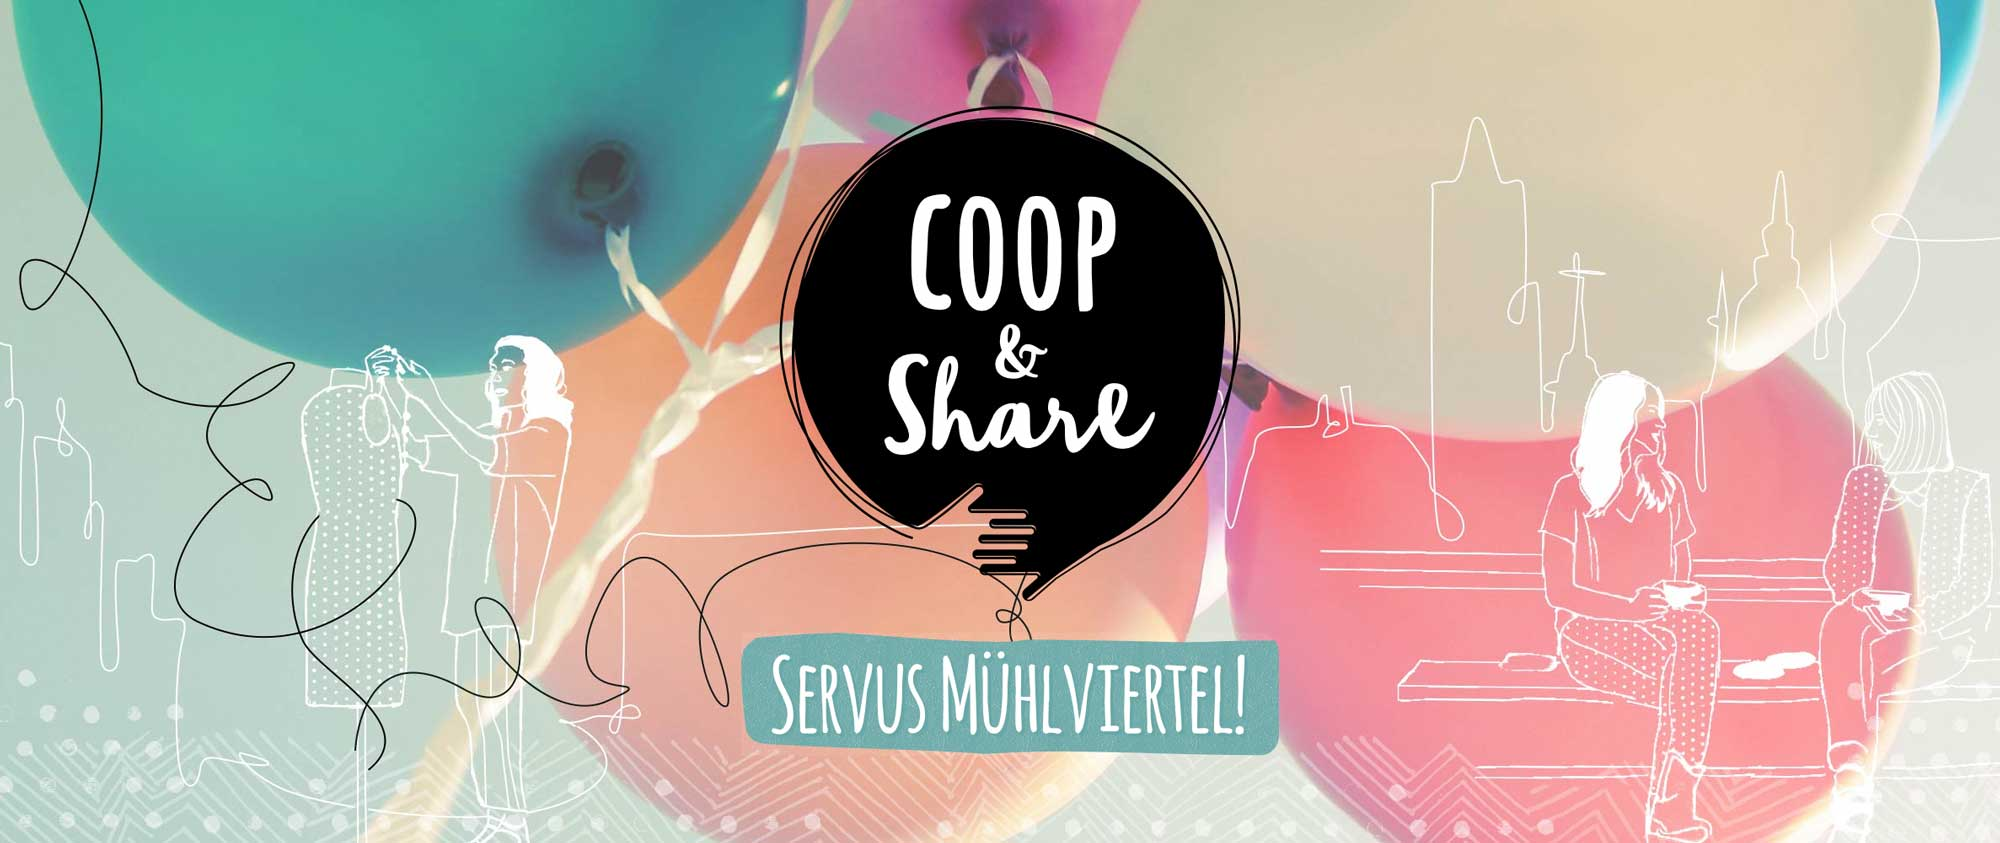
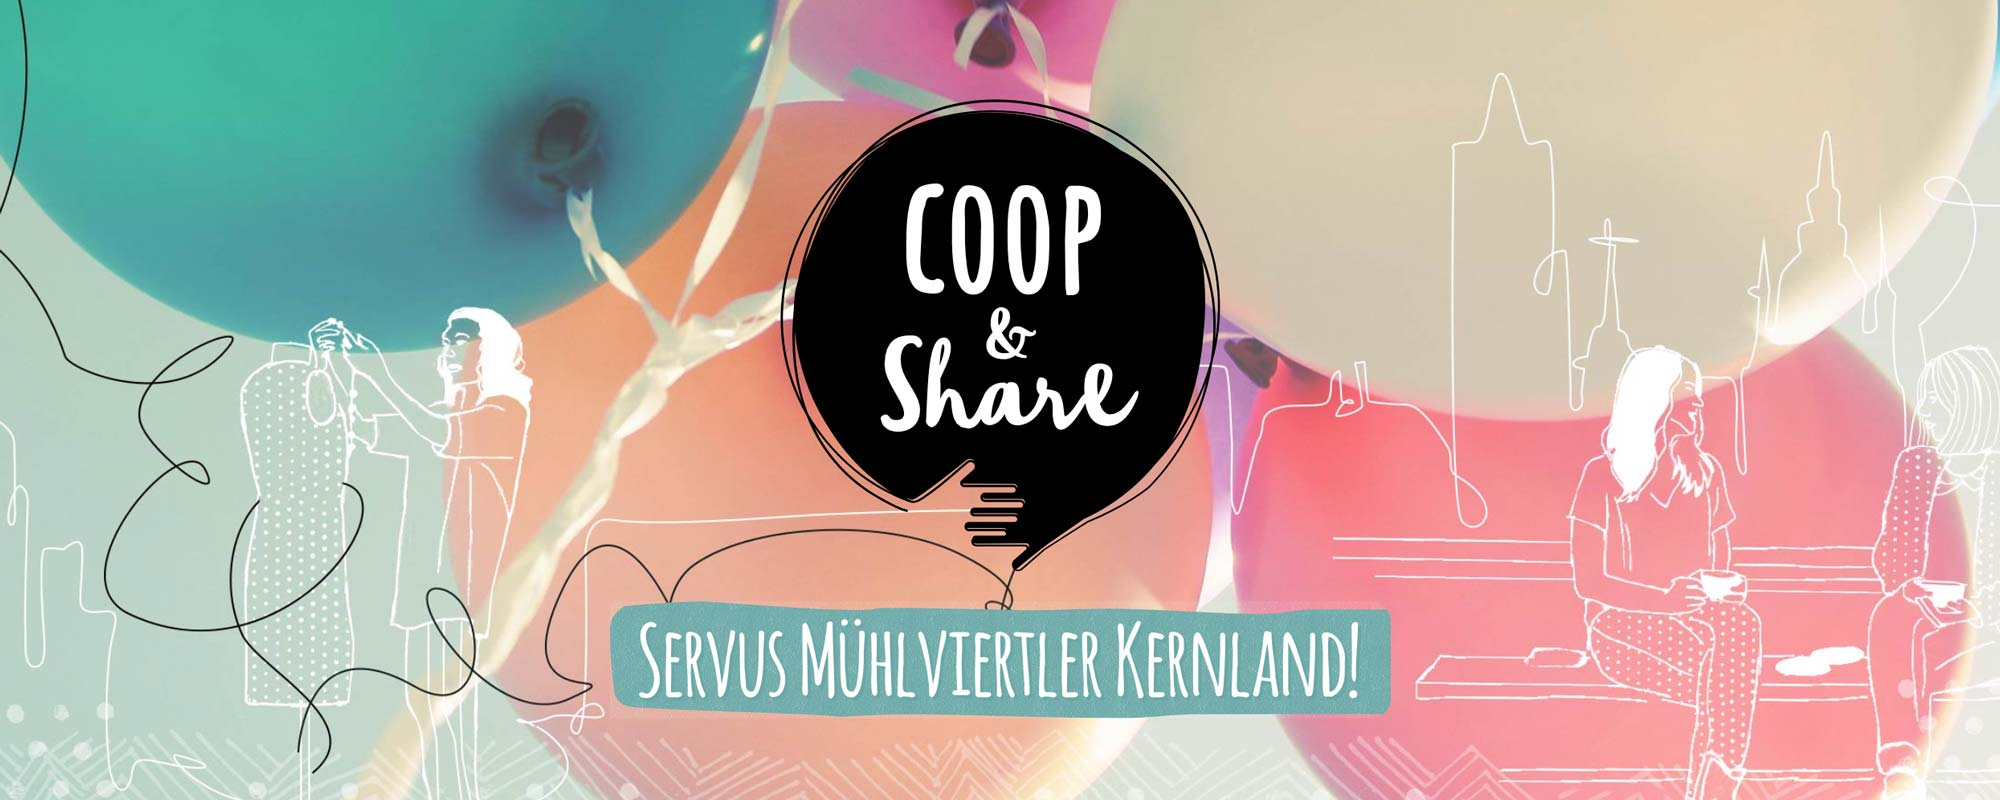
koop partner

diff --git a/app/assets/stylesheets/controllers/_landing_pages.scss b/app/assets/stylesheets/controllers/_landing_pages.scss
@@ -42,7 +42,7 @@ section.lp {
   }
 
 
-  // WeLocally Mühlviertel Kernland
+  // WeLocally Mühlviertler Kernland
   &.-muehlviertel {
     .imgHeader {
       .wrp {
@@ -140,6 +140,48 @@ section.lp {
       margin-top:20px;
       font-style: italic;
       text-align: center;
+    }
+    section.kooperationspartner {
+      margin-top:60px;
+      h2 {
+        @include headlineBarbapapaMintDark;
+        margin: auto;
+        margin-bottom: 40px;
+      }
+      a {
+        color: $color-ambient-grey;
+        &:hover {
+          color: $color-ambient-rosa;
+        }
+      }
+      .cardBox {
+        display: flex;
+        justify-content: center;
+        align-items: center;
+        flex-wrap:wrap;
+        flex-direction:column;
+        @include respond-to(">=medium") {
+          flex-direction:row;
+        }
+        img {
+          width:50%;
+          @include respond-to(">=medium") {
+            width:100%;
+          }
+        }
+        div.wrp {
+          width:100%;
+          text-align:center;
+          @include respond-to(">=medium") {
+            width:50%;
+            text-align:left;
+          }
+          padding:10px;
+          .links {
+            @include ellipsis;
+          }
+        }
+      }
     }
   }
 

diff --git a/app/admin/dashboard.rb b/app/admin/dashboard.rb
@@ -61,7 +61,6 @@ ActiveAdmin.register_page "Dashboard" do
             column(:location, sortable: :name) do |location|
               link_to location.name, admin_location_path(location)
             end
-            column :graetzl
             column :users do |location|
               safe_join(location.users.map { |user| link_to(user.username, admin_user_path(user)) }, ', ')
             end
